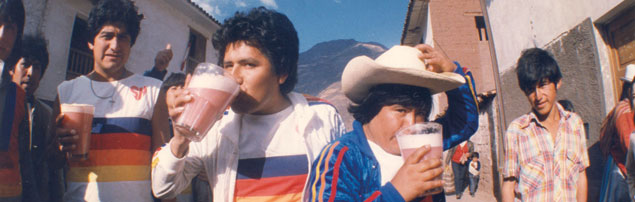
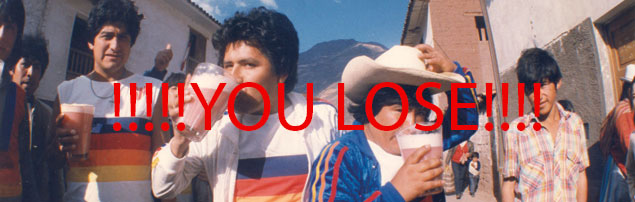
added losing image

Changed region(s): [[0.1795, 0.3861, 0.8677, 0.6535]]

diff --git a/assets/javascript/game.js b/assets/javascript/game.js
@@ -128,7 +128,7 @@ function isLoser() {
         numLosses++;
         isFinished = true;
        
-        document.getElementById("picResult").src = "https://youtu.be/M5QGkOGZubQ";
+        document.getElementById("picResult").src = "assets/images/chicha_banner.jpg";
         document.getElementById("numLosses").style.color = "#e12d2e";
     }
 
